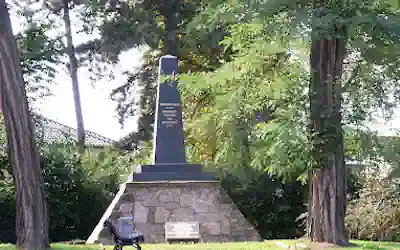
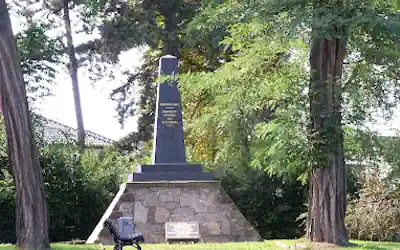
add sites

diff --git a/src/components/CalendarView.jsx b/src/components/CalendarView.jsx
@@ -5,7 +5,7 @@ import { Calendar, MapPin, User, Info, ExternalLink, Filter, Tag, ChevronDown, G
 import ShowsCalendarModal from './ShowsCalendarModal';
 import './CalendarView.css';
 
-const SHOW_CATEGORIES = ['Categories', 'Reenactment', 'Ball', 'Lecture', 'Exhibition', 'Book release'];
+const SHOW_CATEGORIES = ['Reenactment', 'Ball', 'Lecture', 'Exhibition', 'Book release'];
 const SHOW_MONTHS = ['Months', 'January', 'February', 'March', 'April', 'May', 'June',
     'July', 'August', 'September', 'October', 'November', 'December'];
 
@@ -81,9 +81,9 @@ const CalendarView = ({ onClose }) => {
                             <div style={{ display: 'flex', alignItems: 'center', gap: '0.8rem' }}>
                                 <h2>Upcoming Events</h2>
                                 {selectedDate && (
-                                    <span 
-                                        className="badge" 
-                                        style={{ backgroundColor: 'var(--accent-primary)', cursor: 'pointer', display: 'flex', alignItems: 'center', color: '#000' }} 
+                                    <span
+                                        className="badge"
+                                        style={{ backgroundColor: 'var(--accent-primary)', cursor: 'pointer', display: 'flex', alignItems: 'center', color: '#000' }}
                                         onClick={() => setSelectedDate(null)}
                                         title="Clear date filter"
                                     >
@@ -93,8 +93,8 @@ const CalendarView = ({ onClose }) => {
                             </div>
                             <p>Discover Napoleonic events and reenactments worlwide</p>
                         </div>
-                        <img src="/assets/images/NT_logo.webp" alt="NT Logo" style={{ height: '32px', marginLeft: 'auto' }} />
-                         <button className="modal-close-btn" onClick={onClose}>
+                        <img src="/assets/NT_logo.png" alt="NT Logo" style={{ height: '32px', marginLeft: 'auto' }} />
+                        <button className="modal-close-btn" onClick={onClose}>
                             <X size={24} />
                         </button>
                     </div>
@@ -117,17 +117,27 @@ const CalendarView = ({ onClose }) => {
 
                             {isCategoryDropdownOpen && (
                                 <div className="dropdown-menu glass-panel animate-fade-in">
+                                    <button
+                                        key="all"
+                                        className={`dropdown-option ${selectedCategory === '' ? 'selected' : ''}`}
+                                        onClick={() => {
+                                            setSelectedCategory('');
+                                            setIsCategoryDropdownOpen(false);
+                                        }}
+                                    >
+                                        Categories
+                                    </button>
                                     {SHOW_CATEGORIES.map(cat => (
                                         <button
                                             key={cat}
-                                            className={`dropdown-option ${selectedCategory === cat ? 'selected' : ''} ${cat !== 'Categories' && activeStats.categories[cat] ? 'has-items' : ''}`}
+                                            className={`dropdown-option ${selectedCategory === cat ? 'selected' : ''} ${activeStats.categories[cat] ? 'has-items' : ''}`}
                                             onClick={() => {
                                                 setSelectedCategory(cat);
                                                 setIsCategoryDropdownOpen(false);
                                             }}
                                         >
                                             {cat}
-                                            {cat !== 'Categories' && activeStats.categories[cat] > 0 && (
+                                            {activeStats.categories[cat] > 0 && (
                                                 <span className="item-count-indicator">{activeStats.categories[cat]}</span>
                                             )}
                                         </button>
@@ -153,17 +163,27 @@ const CalendarView = ({ onClose }) => {
 
                             {isCountryDropdownOpen && (
                                 <div className="dropdown-menu glass-panel animate-fade-in">
+                                    <button
+                                        key="all"
+                                        className={`dropdown-option ${selectedCountry === '' ? 'selected' : ''}`}
+                                        onClick={() => {
+                                            setSelectedCountry('');
+                                            setIsCountryDropdownOpen(false);
+                                        }}
+                                    >
+                                        Countries
+                                    </button>
                                     {countries.map(country => (
                                         <button
                                             key={country}
-                                            className={`dropdown-option ${selectedCountry === country ? 'selected' : ''} ${country !== 'Countries' && activeStats.countries[country] ? 'has-items' : ''}`}
+                                            className={`dropdown-option ${selectedCountry === country ? 'selected' : ''} ${activeStats.countries[country] ? 'has-items' : ''}`}
                                             onClick={() => {
                                                 setSelectedCountry(country);
                                                 setIsCountryDropdownOpen(false);
                                             }}
                                         >
                                             {country}
-                                            {country !== 'Countries' && activeStats.countries[country] > 0 && (
+                                            {activeStats.countries[country] > 0 && (
                                                 <span className="item-count-indicator">{activeStats.countries[country]}</span>
                                             )}
                                         </button>
@@ -209,7 +229,7 @@ const CalendarView = ({ onClose }) => {
                                 )}
                             </div>
 
-                            <button 
+                            <button
                                 className="category-filter-wrapper glass-panel"
                                 onClick={() => setIsShowsCalendarOpen(true)}
                                 style={{ flex: 1, justifyContent: 'center', cursor: 'pointer', paddingLeft: '0.5rem', paddingRight: '0.5rem' }}
@@ -232,9 +252,9 @@ const CalendarView = ({ onClose }) => {
                                         <div className="show-image-container">
                                             <img src={show.image} alt={show.name} className="show-image" />
                                             {show.category && (
-                                                <span 
-                                                    className="badge category-badge" 
-                                                    style={{ 
+                                                <span
+                                                    className="badge category-badge"
+                                                    style={{
                                                         backgroundColor: getEventCategoryColor(show.category),
                                                         position: 'absolute',
                                                         bottom: '12px',
@@ -297,11 +317,11 @@ const CalendarView = ({ onClose }) => {
                     </div>
                 </div>
             </div>
-            
+
             {isShowsCalendarOpen && (
-                <ShowsCalendarModal 
-                    showsData={filteredShows} 
-                    onClose={() => setIsShowsCalendarOpen(false)} 
+                <ShowsCalendarModal
+                    showsData={filteredShows}
+                    onClose={() => setIsShowsCalendarOpen(false)}
                     onDayClick={(date) => {
                         setIsShowsCalendarOpen(false);
                         setSelectedDate(date);